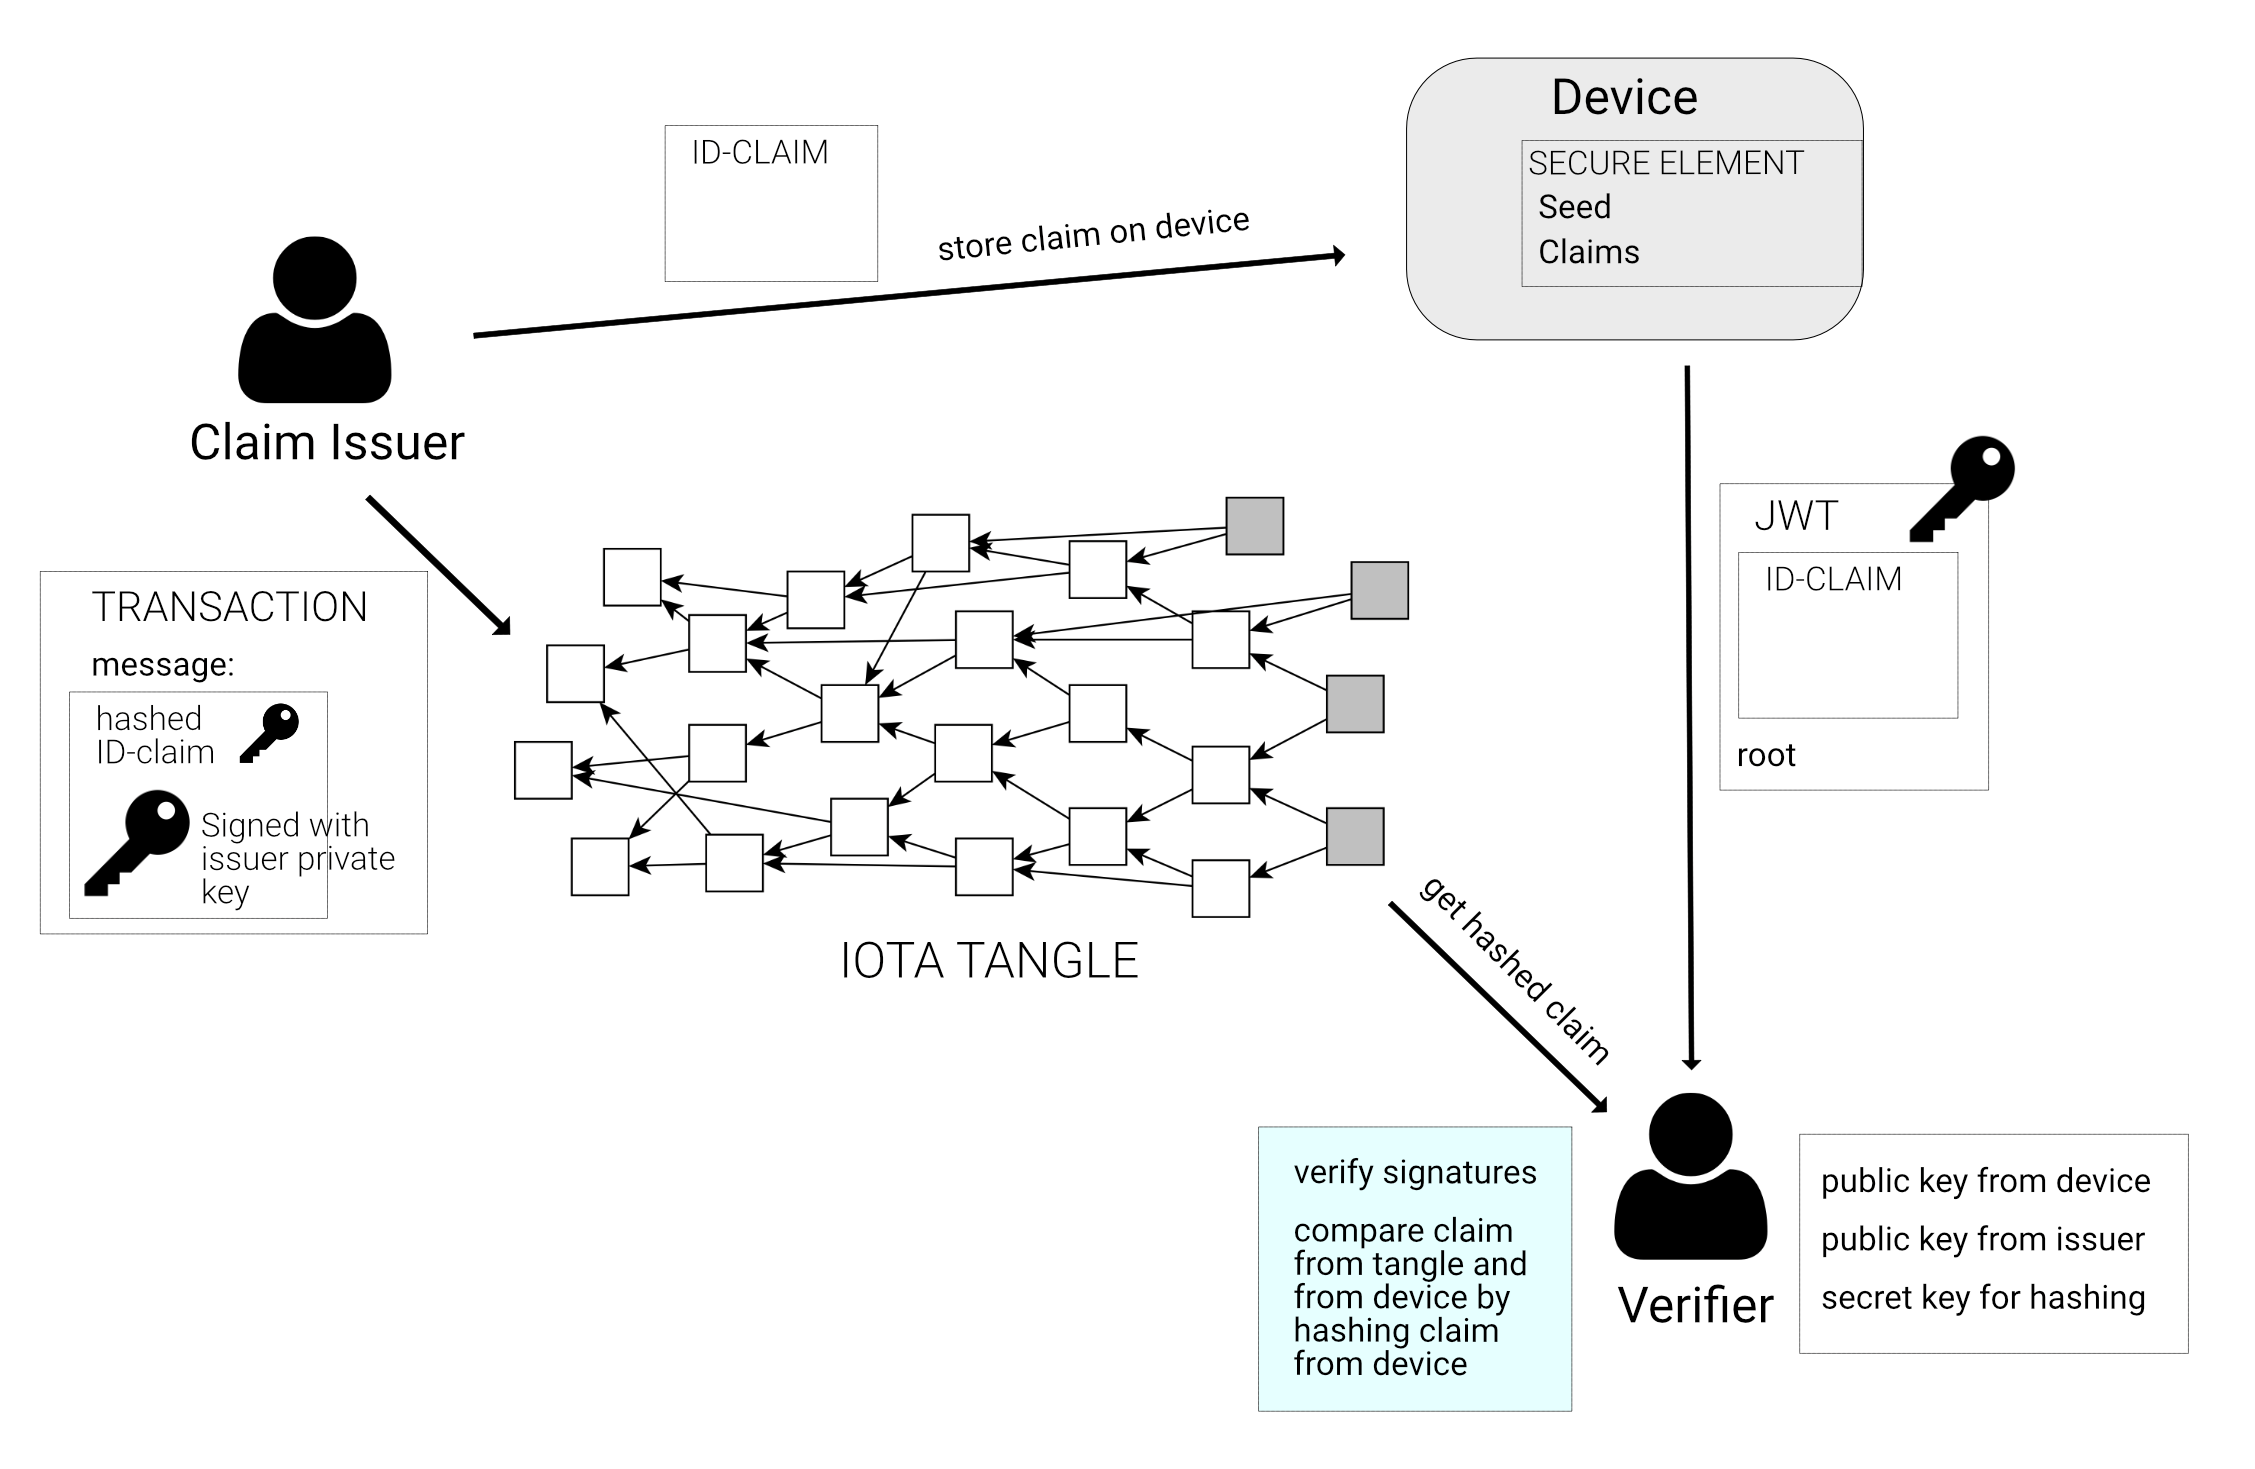
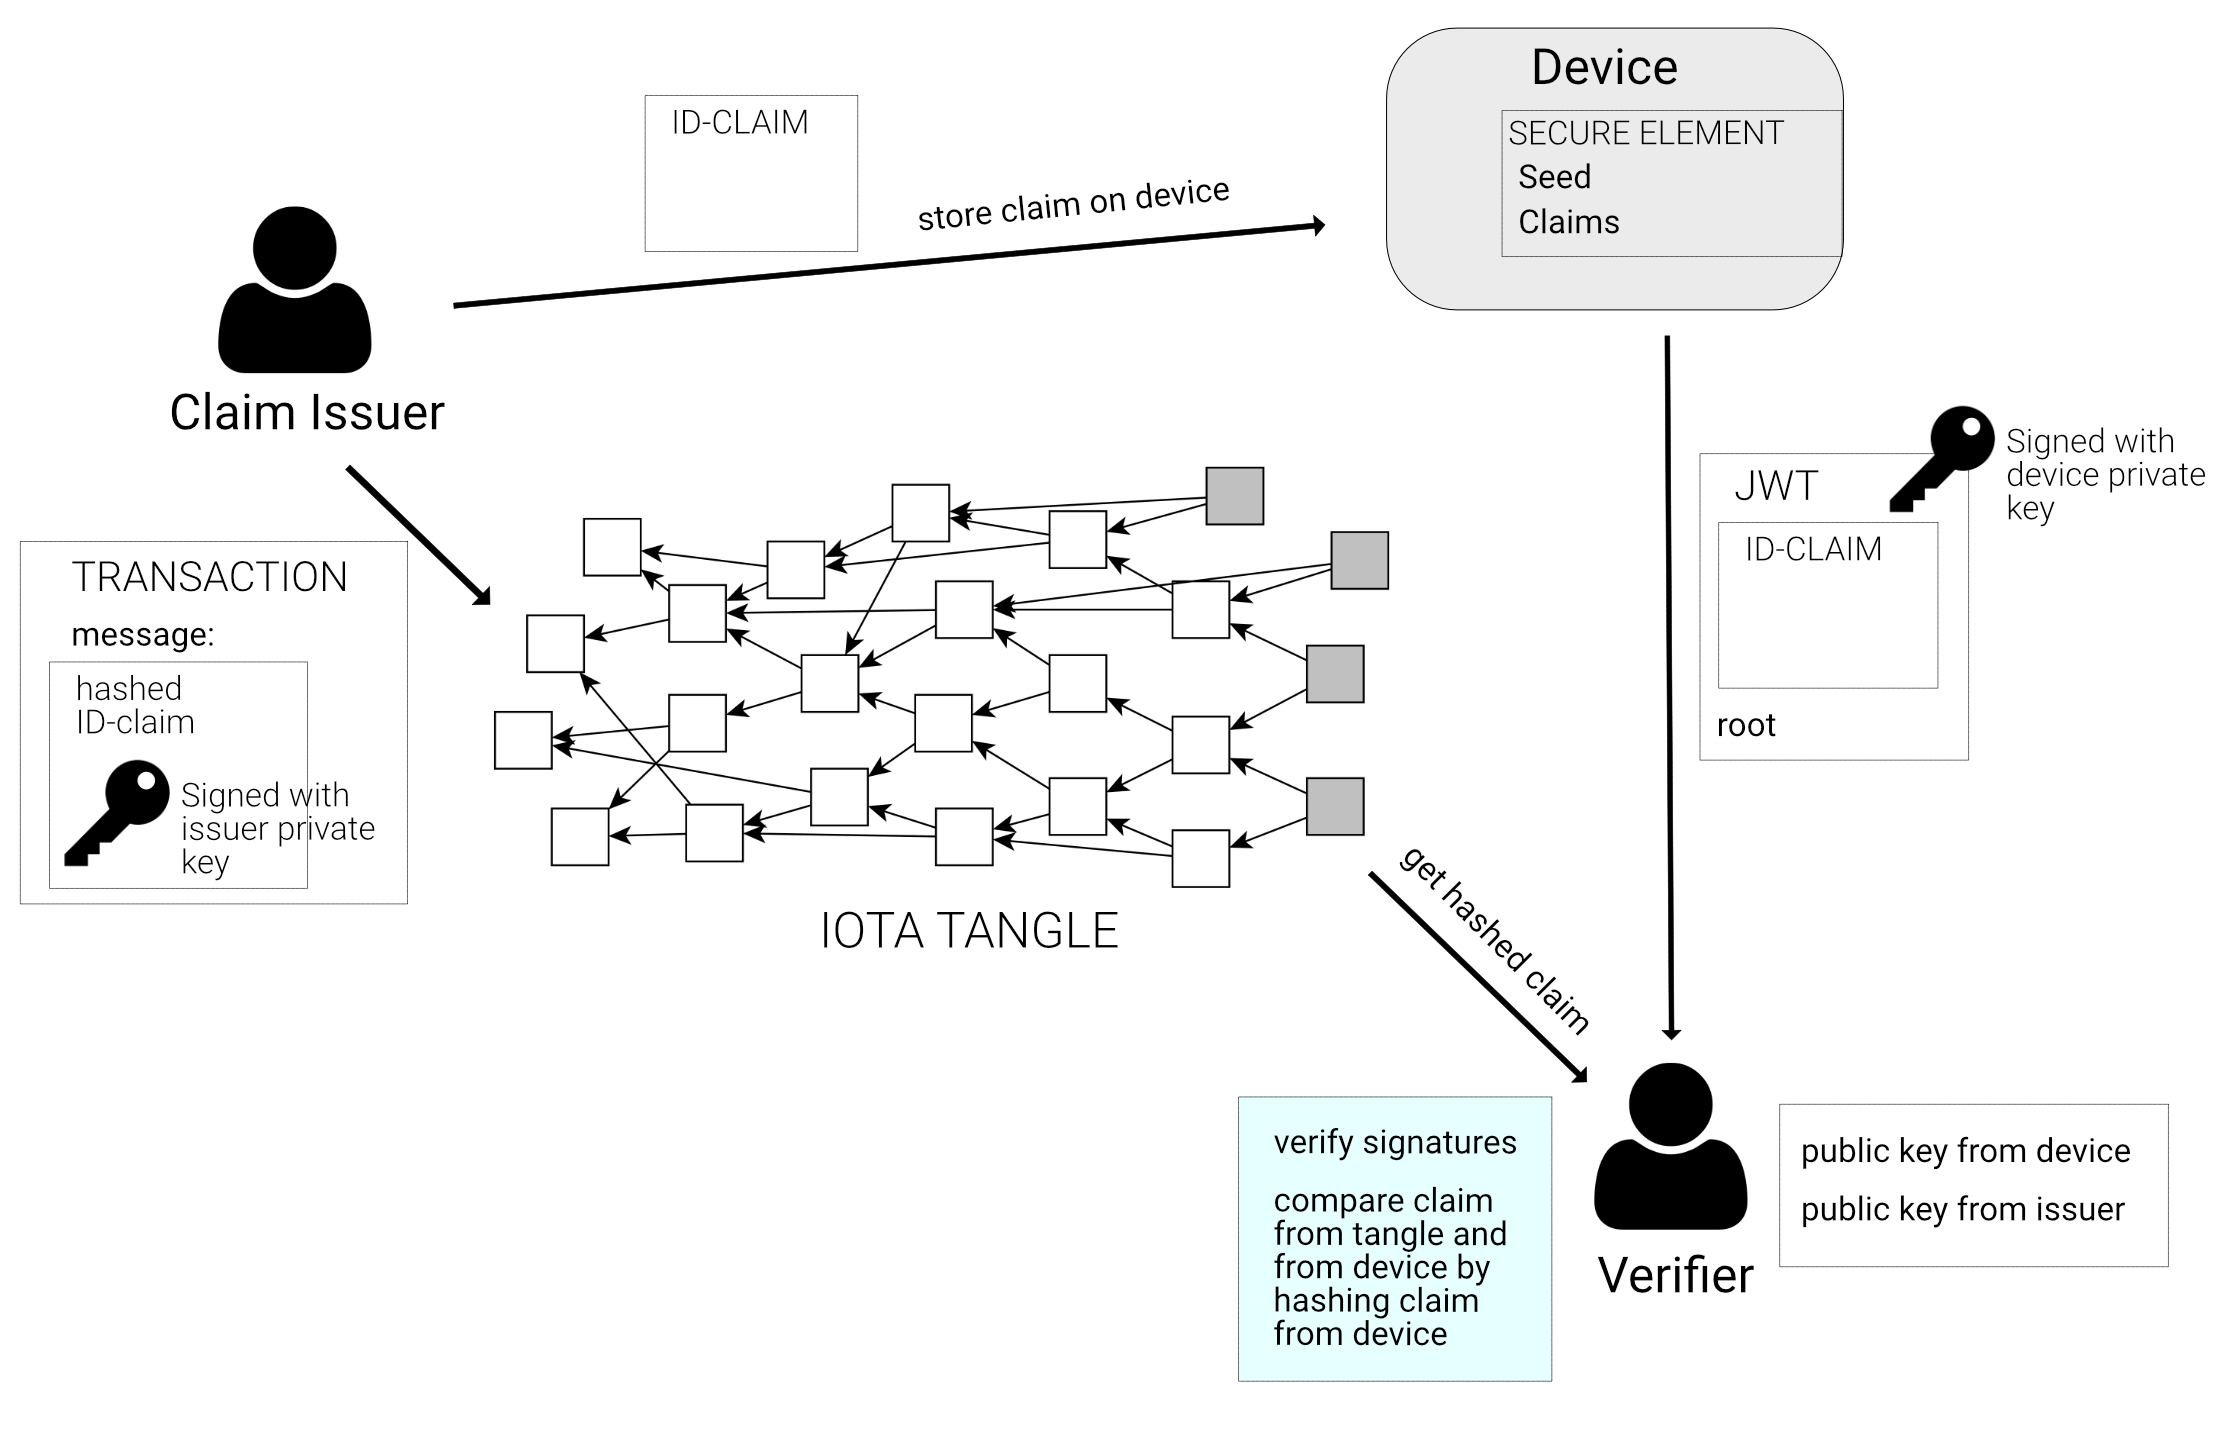
hash claim

diff --git a/claim-issuer/generateClaim.js b/claim-issuer/generateClaim.js
@@ -1,10 +1,18 @@
 
 //This script produces a signed Identity-claim in form of a JSON-document and stores it locally
 
+//uncommment these variables if you would like to execute the script itself (node make-ID-claim.js):
[2 lines of base64/hex data omitted]
+const issuerName = "https://publicRoadsAdministration.com/"
+const owner = "Transport GmbH"
+const model = "Raspberry Pi 3B+"
+const validUntil = "01/01/2025"
+
 const uuidv4 = require('uuid/v4')
 const fs = require('fs')
 
-exports.generateClaim = function (devicePubKey,issuerAdress,issuer,deviceOwner,deviceModel,expirationDate) {
+generateClaim = function (devicePubKey,issuerAdress,issuer,deviceOwner,deviceModel,expirationDate) {
     try {
         const UUID = uuidv4();
     
@@ -32,3 +40,6 @@ exports.generateClaim = function (devicePubKey,issuerAdress,issuer,deviceOwner,d
         console.log('Error: ', err)
     }
 }
+
+//uncomment the function if you would like to execute the script itself:
+generateClaim(pubKey,signingAddress,issuerName,owner,model,validUntil)

diff --git a/claim-issuer/registerIdentity.js b/claim-issuer/registerIdentity.js
@@ -1,5 +1,7 @@
 //register Identity claim
 const jwt = require('jsonwebtoken')
+const SHA256 = require('crypto-js/sha256')
+const CryptoJS = require('crypto-js')
 
 const Mam = require('@iota/mam')
 const { asciiToTrytes } = require('@iota/converter')
@@ -28,7 +30,10 @@ let mamState = Mam.init(provider,seed)
 let claim = ClaimGenerator.generateClaim(pubKey,signingAddress,issuerName,owner,model,validUntil)
 
 //Second step: hash claim
-let hashedClaim = CryptoJS.HmacSHA256(claim)
+const hashedClaim = CryptoJS.SHA256(JSON.stringify(claim))
+    .toString(CryptoJS.enc.Hex)
+
+console.log('Hash of claim: ', hashedClaim)
 
 //Third step: publish to tangle
 const publish = async packet => {
@@ -47,7 +52,7 @@ const publish = async packet => {
     return message.root
 }
 
-//publish Identity Token to tangle
+//publish Hash to tangle
 registerIdentity = async (identityToken) => {
 
     const root = await publish({
